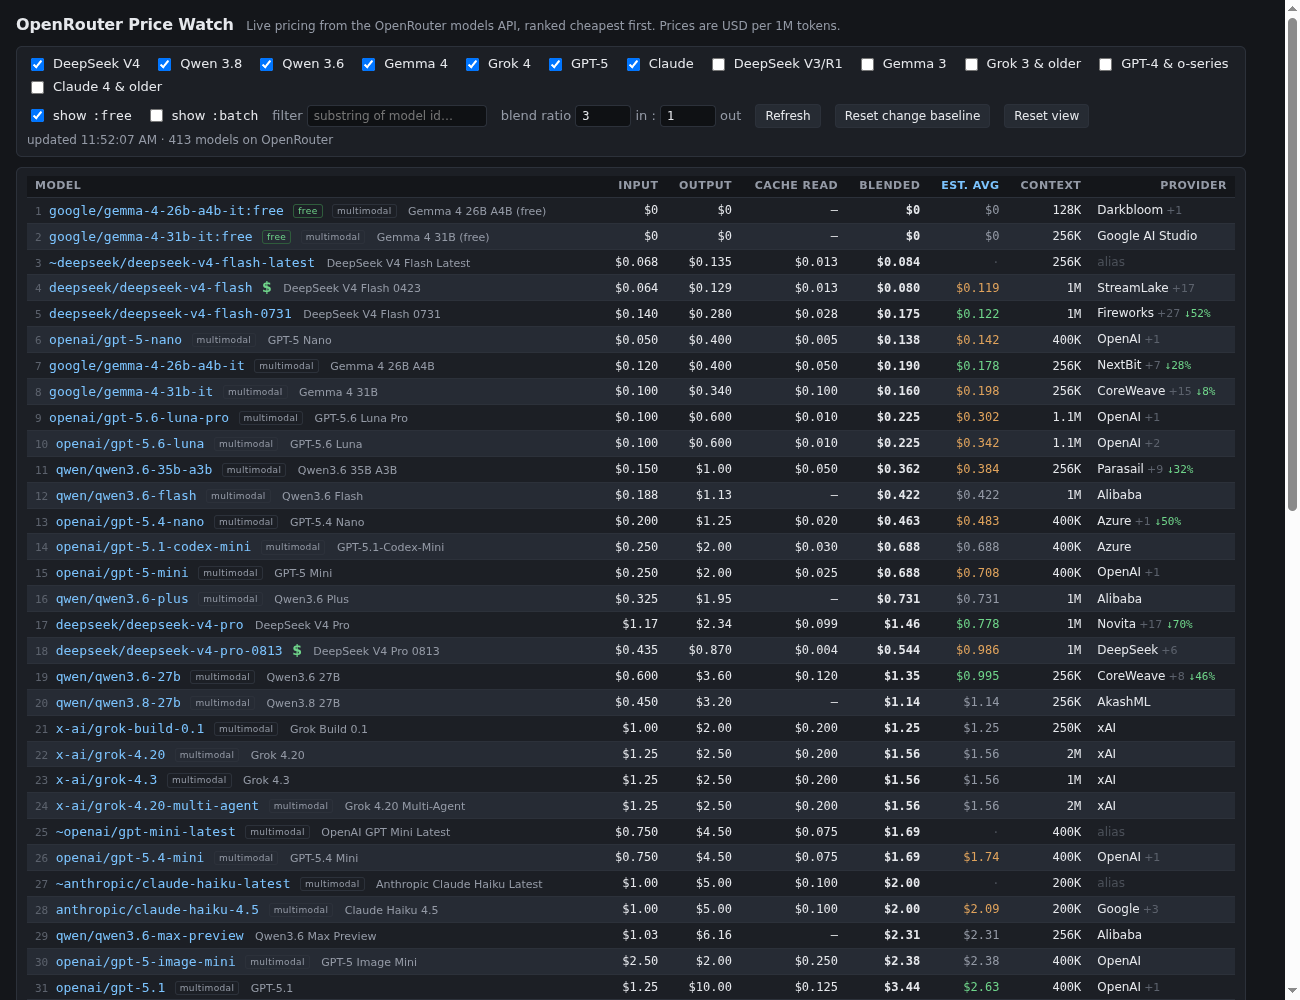
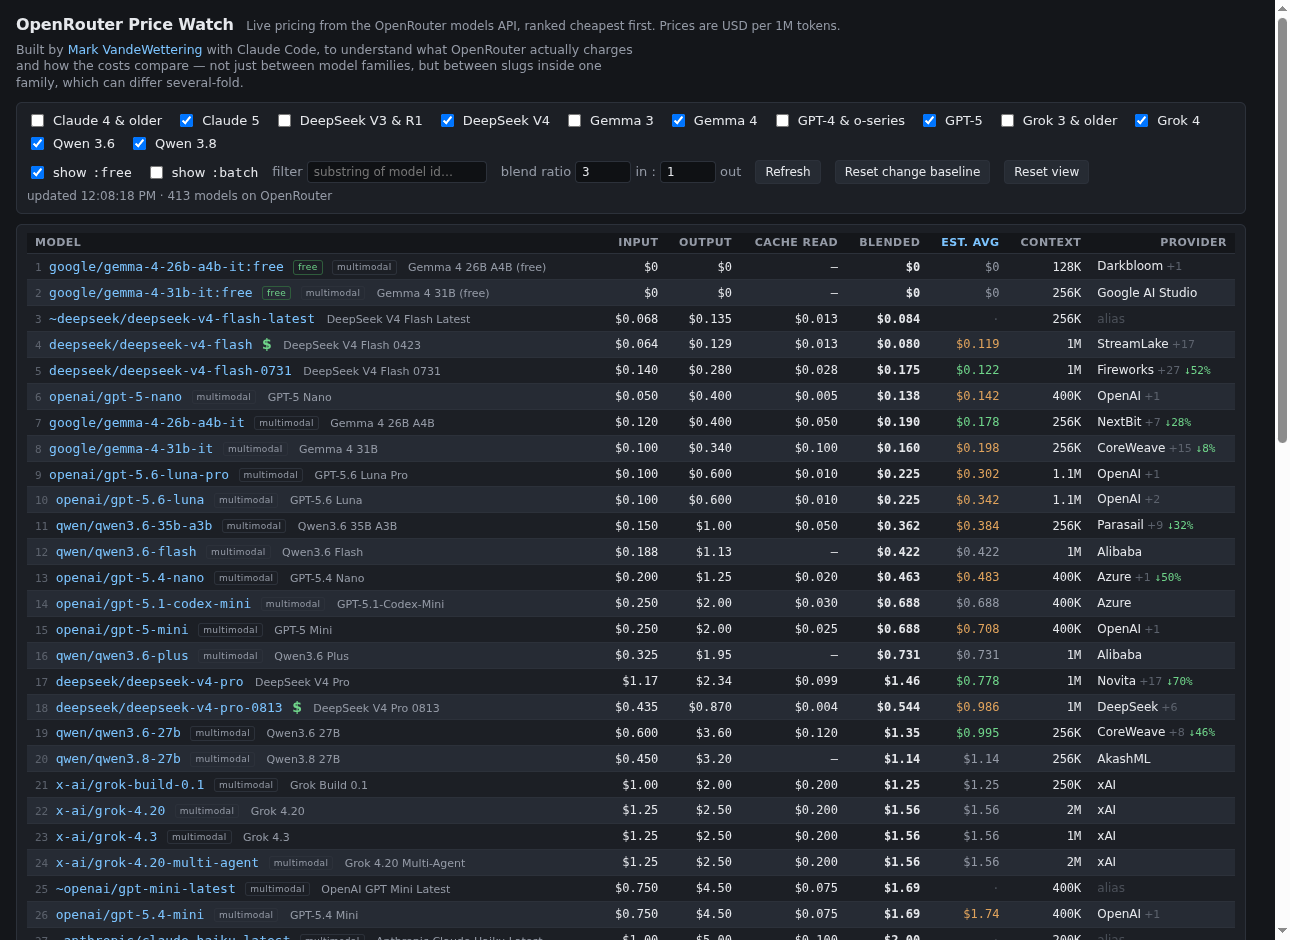
Refresh screenshot and bring README up to date
Covers the Est. avg default sort, provider roster fetching, the in-page
explainer, collapsible group headers with price ranges, the cheapest-version
badge, and how family checkbox ordering and keys behave.

diff --git a/README.md b/README.md
@@ -10,14 +10,16 @@ No build step, no dependencies, no API key — open `index.html` in a browser.
 
 ## What it does
 
-- Pulls the public `/api/v1/models` endpoint on load and every 15 minutes.
-- Filters to a set of model families — DeepSeek V4, Qwen 3.6/3.8, Gemma 4,
-  Grok 4, GPT-5, Claude — each a checkbox, with older generations available
-  behind their own toggles.
-- Ranks by **blended** cost: the price of 1M tokens at your prompt/completion
-  mix (default 3:1), since output tokens usually dominate a real bill.
-- Estimates the **average** cost per request across a model's providers, and
-  names the provider serving OpenRouter's default route.
+- Pulls the public `/api/v1/models` endpoint on load and every 15 minutes, then
+  each model's `/endpoints` roster to learn who actually serves it.
+- Filters to a set of model families — Claude 5, DeepSeek V4, Gemma 4, GPT-5,
+  Grok 4, Qwen 3.6/3.8 — each a checkbox, with the preceding generation of each
+  available behind its own toggle.
+- Ranks by **expected** cost across a slug's providers, with **blended**
+  input/output pricing at your own prompt/completion mix (default 3:1), since
+  output tokens usually dominate a real bill.
+- Names the provider serving OpenRouter's default route, counts the
+  alternatives, and flags when a different provider is cheaper.
 - Flags price changes since the last time you looked.
 
 ## Columns
@@ -28,9 +30,12 @@ No build step, no dependencies, no API key — open `index.html` in a browser.
 | Input / Output | Price per 1M tokens on the default route |
 | Cache read | Price per 1M cached input tokens |
 | Blended | `(in×input + out×output) / (in+out)` at your ratio |
-| Est. avg | Expected cost across all providers (see below) |
+| Est. avg | Expected cost across all providers (see below); sorted by this |
 | Context | Context window |
 | Provider | Who serves the default route, `+n` others, `↓n%` if one is cheaper |
+
+The page carries its own explainer — a collapsed block under the table covers
+the glyphs, how a slug is priced, and both formulas.
 
 ## Estimating the average cost
 
@@ -56,10 +61,15 @@ deterministic rate.
 
 - **Grouping.** Sorting by Model nests each release line (`openai/gpt-5`) over
   its variant families (`…-v4-flash` and its dated builds), cheapest first
-  inside each. Headers are collapsible.
+  inside each. Headers collapse when clicked, and a collapsed one shows the
+  price range of what it hides.
 - **Tiers.** `:free` and `:batch` variants are separate service tiers, not
   cheaper releases, so they are toggled separately and excluded from the
-  cheapest-version badge.
+  cheapest-version badge. Same for same-provider tiers (`flex`, `priority`),
+  which is why the `↓n%` marker only fires for a genuinely different provider.
+- **Versions.** A green `$` marks the cheapest release of a model that ships
+  several dated builds — `deepseek-v4-flash` undercuts both `-flash-latest`
+  and `-flash-0731`, so newest is not cheapest.
 - **State.** Filters, blend ratio, sort order and collapsed groups persist in
   `localStorage`, along with a price baseline used for the change arrows.
   *Reset view* clears the UI state; *Reset change baseline* re-anchors prices.
@@ -85,3 +95,8 @@ Each entry is a label plus a regex tested against the model id:
 { key: 'grok4', label: 'Grok 4', on: true,
   test: id => /^~?x-ai\/grok-(4|latest|build)/.test(id) },
 ```
+
+Checkboxes are laid out alphabetically by label at build time, so a new family
+lands beside its own generation wherever you declare it. `key` is what the
+saved settings reference — changing a `key` resets that checkbox, changing a
+`label` does not.
